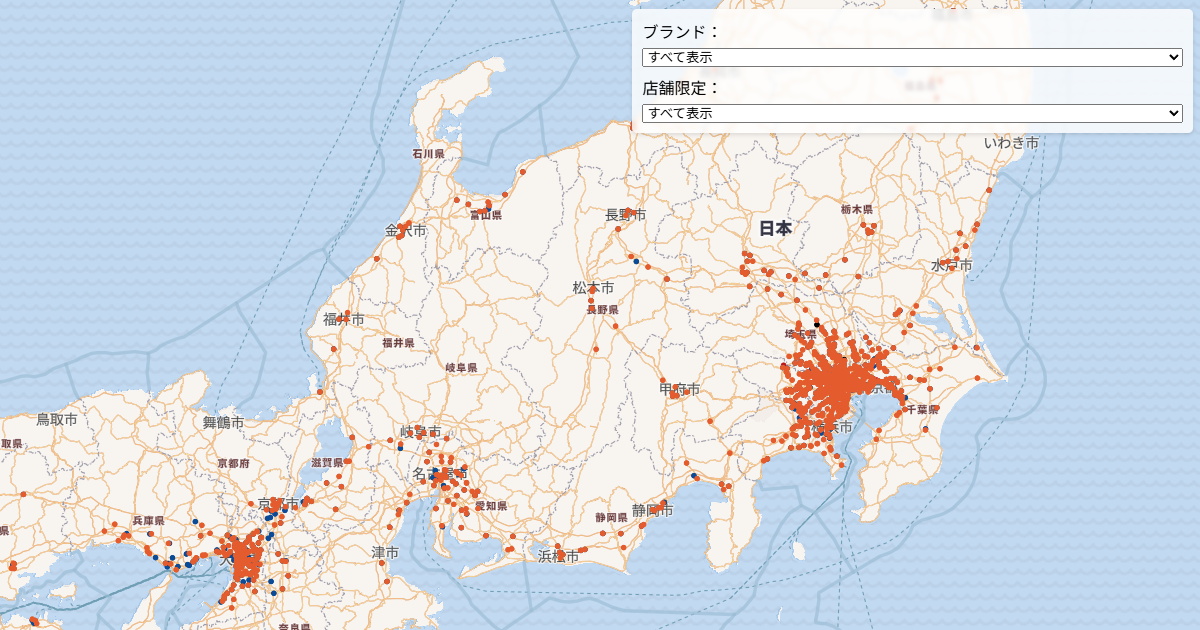
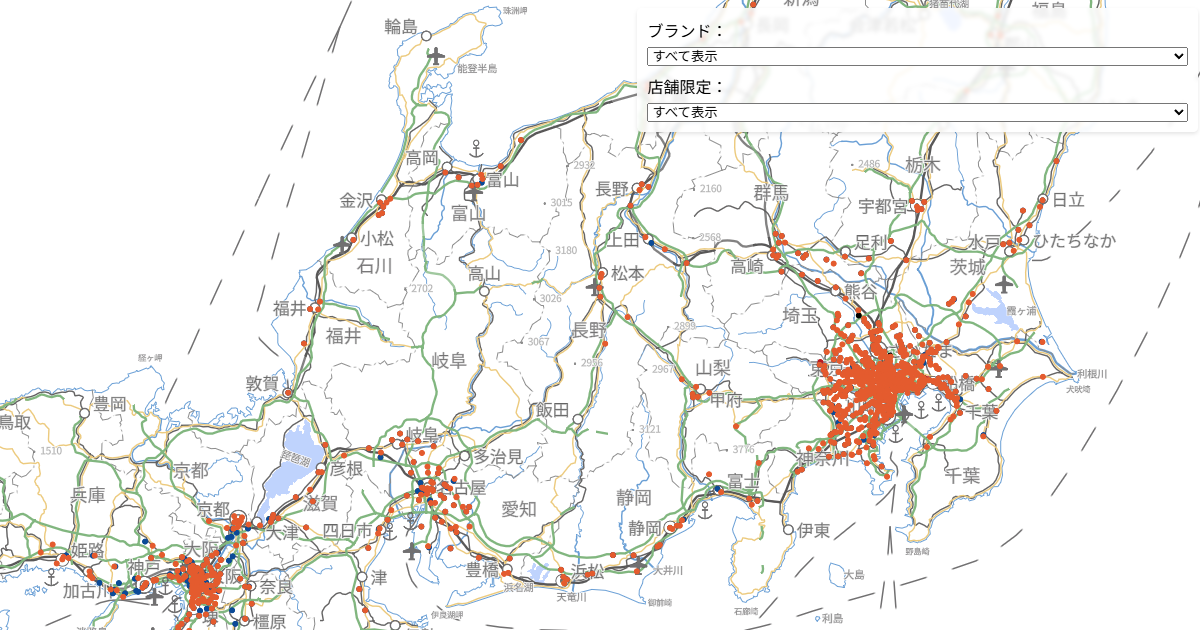
地理院地図に変更

diff --git a/js/common.js b/js/common.js
@@ -3,7 +3,7 @@ const [mapCenter, mapZoom] = initCenterZoom();
 
 const map = new maplibregl.Map({
 	container: 'map',
-	style: 'https://tile.openstreetmap.jp/styles/osm-bright-ja/style.json',
+	style: 'https://gsi-cyberjapan.github.io/gsivectortile-mapbox-gl-js/pale.json',
 	center: mapCenter,
 	zoom: mapZoom
 });
